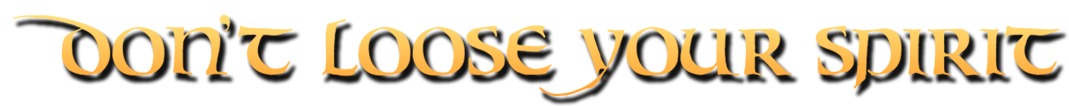
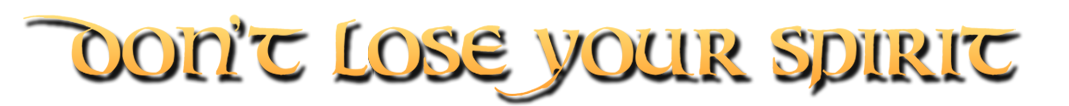
Title fix

diff --git a/core/src/com/ggj16/game/screen/MenuScreen.java b/core/src/com/ggj16/game/screen/MenuScreen.java
@@ -1,6 +1,7 @@
 package com.ggj16.game.screen;
 
 import com.badlogic.gdx.Gdx;
+import com.badlogic.gdx.Input;
 import com.badlogic.gdx.InputAdapter;
 import com.badlogic.gdx.graphics.GL20;
 import com.badlogic.gdx.graphics.Texture;
@@ -96,6 +97,18 @@ public class MenuScreen extends BaseScreen {
         public boolean touchUp(int screenX, int screenY, int pointer, int button) {
             getGame().setGameScreen();
             return super.touchUp(screenX, screenY, pointer, button);
+        }
+
+        @Override
+        public boolean keyUp(int keycode) {
+            switch (keycode)
+            {
+                case Input.Keys.ESCAPE:
+                case Input.Keys.BACK:
+                    Gdx.app.exit();
+                    break;
+            }
+            return true;
         }
     }
 }
